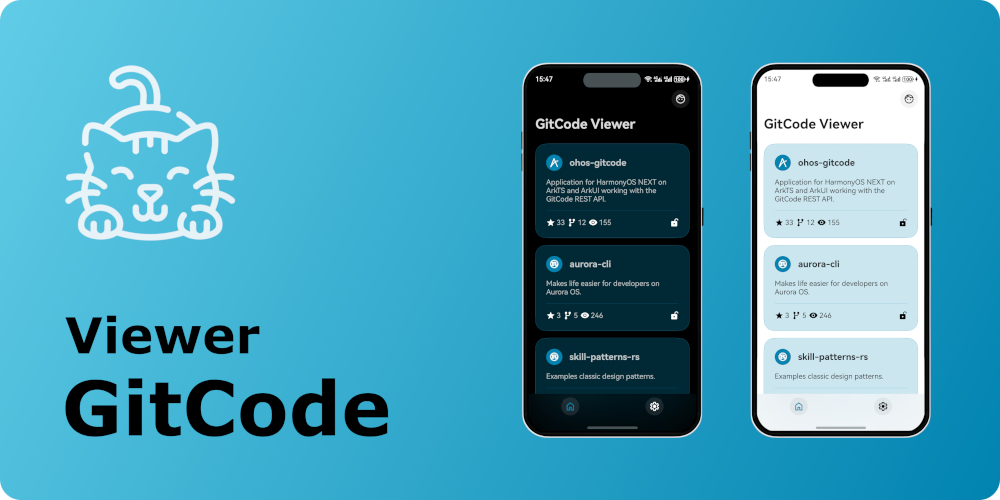
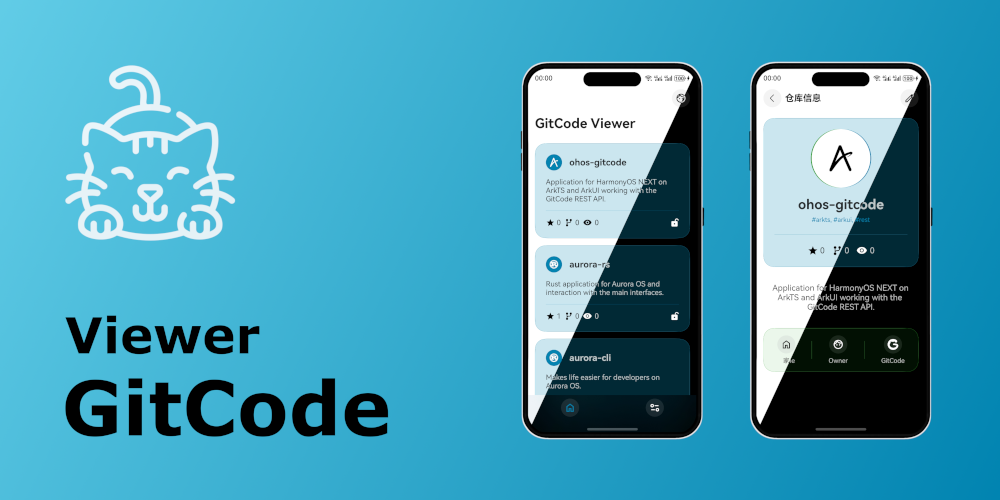
feat: localization, obfuscation

diff --git a/README.md b/README.md
@@ -1,9 +1,7 @@
 GitCode Viewer
 ===================
 
-> The application is under development!
-
-![image](./data/preview.png)
+![image](./data/preview2.png)
 
 Application for HarmonyOS NEXT on 
 [ArkTS](https://developer.huawei.com/consumer/en/arkts/)
@@ -14,20 +12,19 @@ working with the GitCode
 
 ### Features
 
-- Navigation Tabs/Navigation
-- Theme Dark/Light
-- HTTP request
-- Page states
-- Lottie
-- OAuth
-- Deeplink
-- Plugin Hvigor
-- BuildProfile
-- PersistentStorage
-- Crypto
-- Paging List
-- Page refresh
-- Coming soon...
+- Theme (dark/light).
+- Localization (en/ru/cn).
+- HTTP request (axios/rcp).
+- Navigation (tabs/navigation).
+- Page states (auth/loading/error).
+- Plugin Hvigor (for BuildProfile).
+- OAuth + Deeplink (open in browser).
+- PersistentStorage & AppStorage.
+- Crypto & Obfuscation.
+- Refresh List/Page.
+- Paging List.
+- Lottie.
+- Form.
 
 ### Resources
 - [Google Fonts](https://fonts.google.com/icons)
